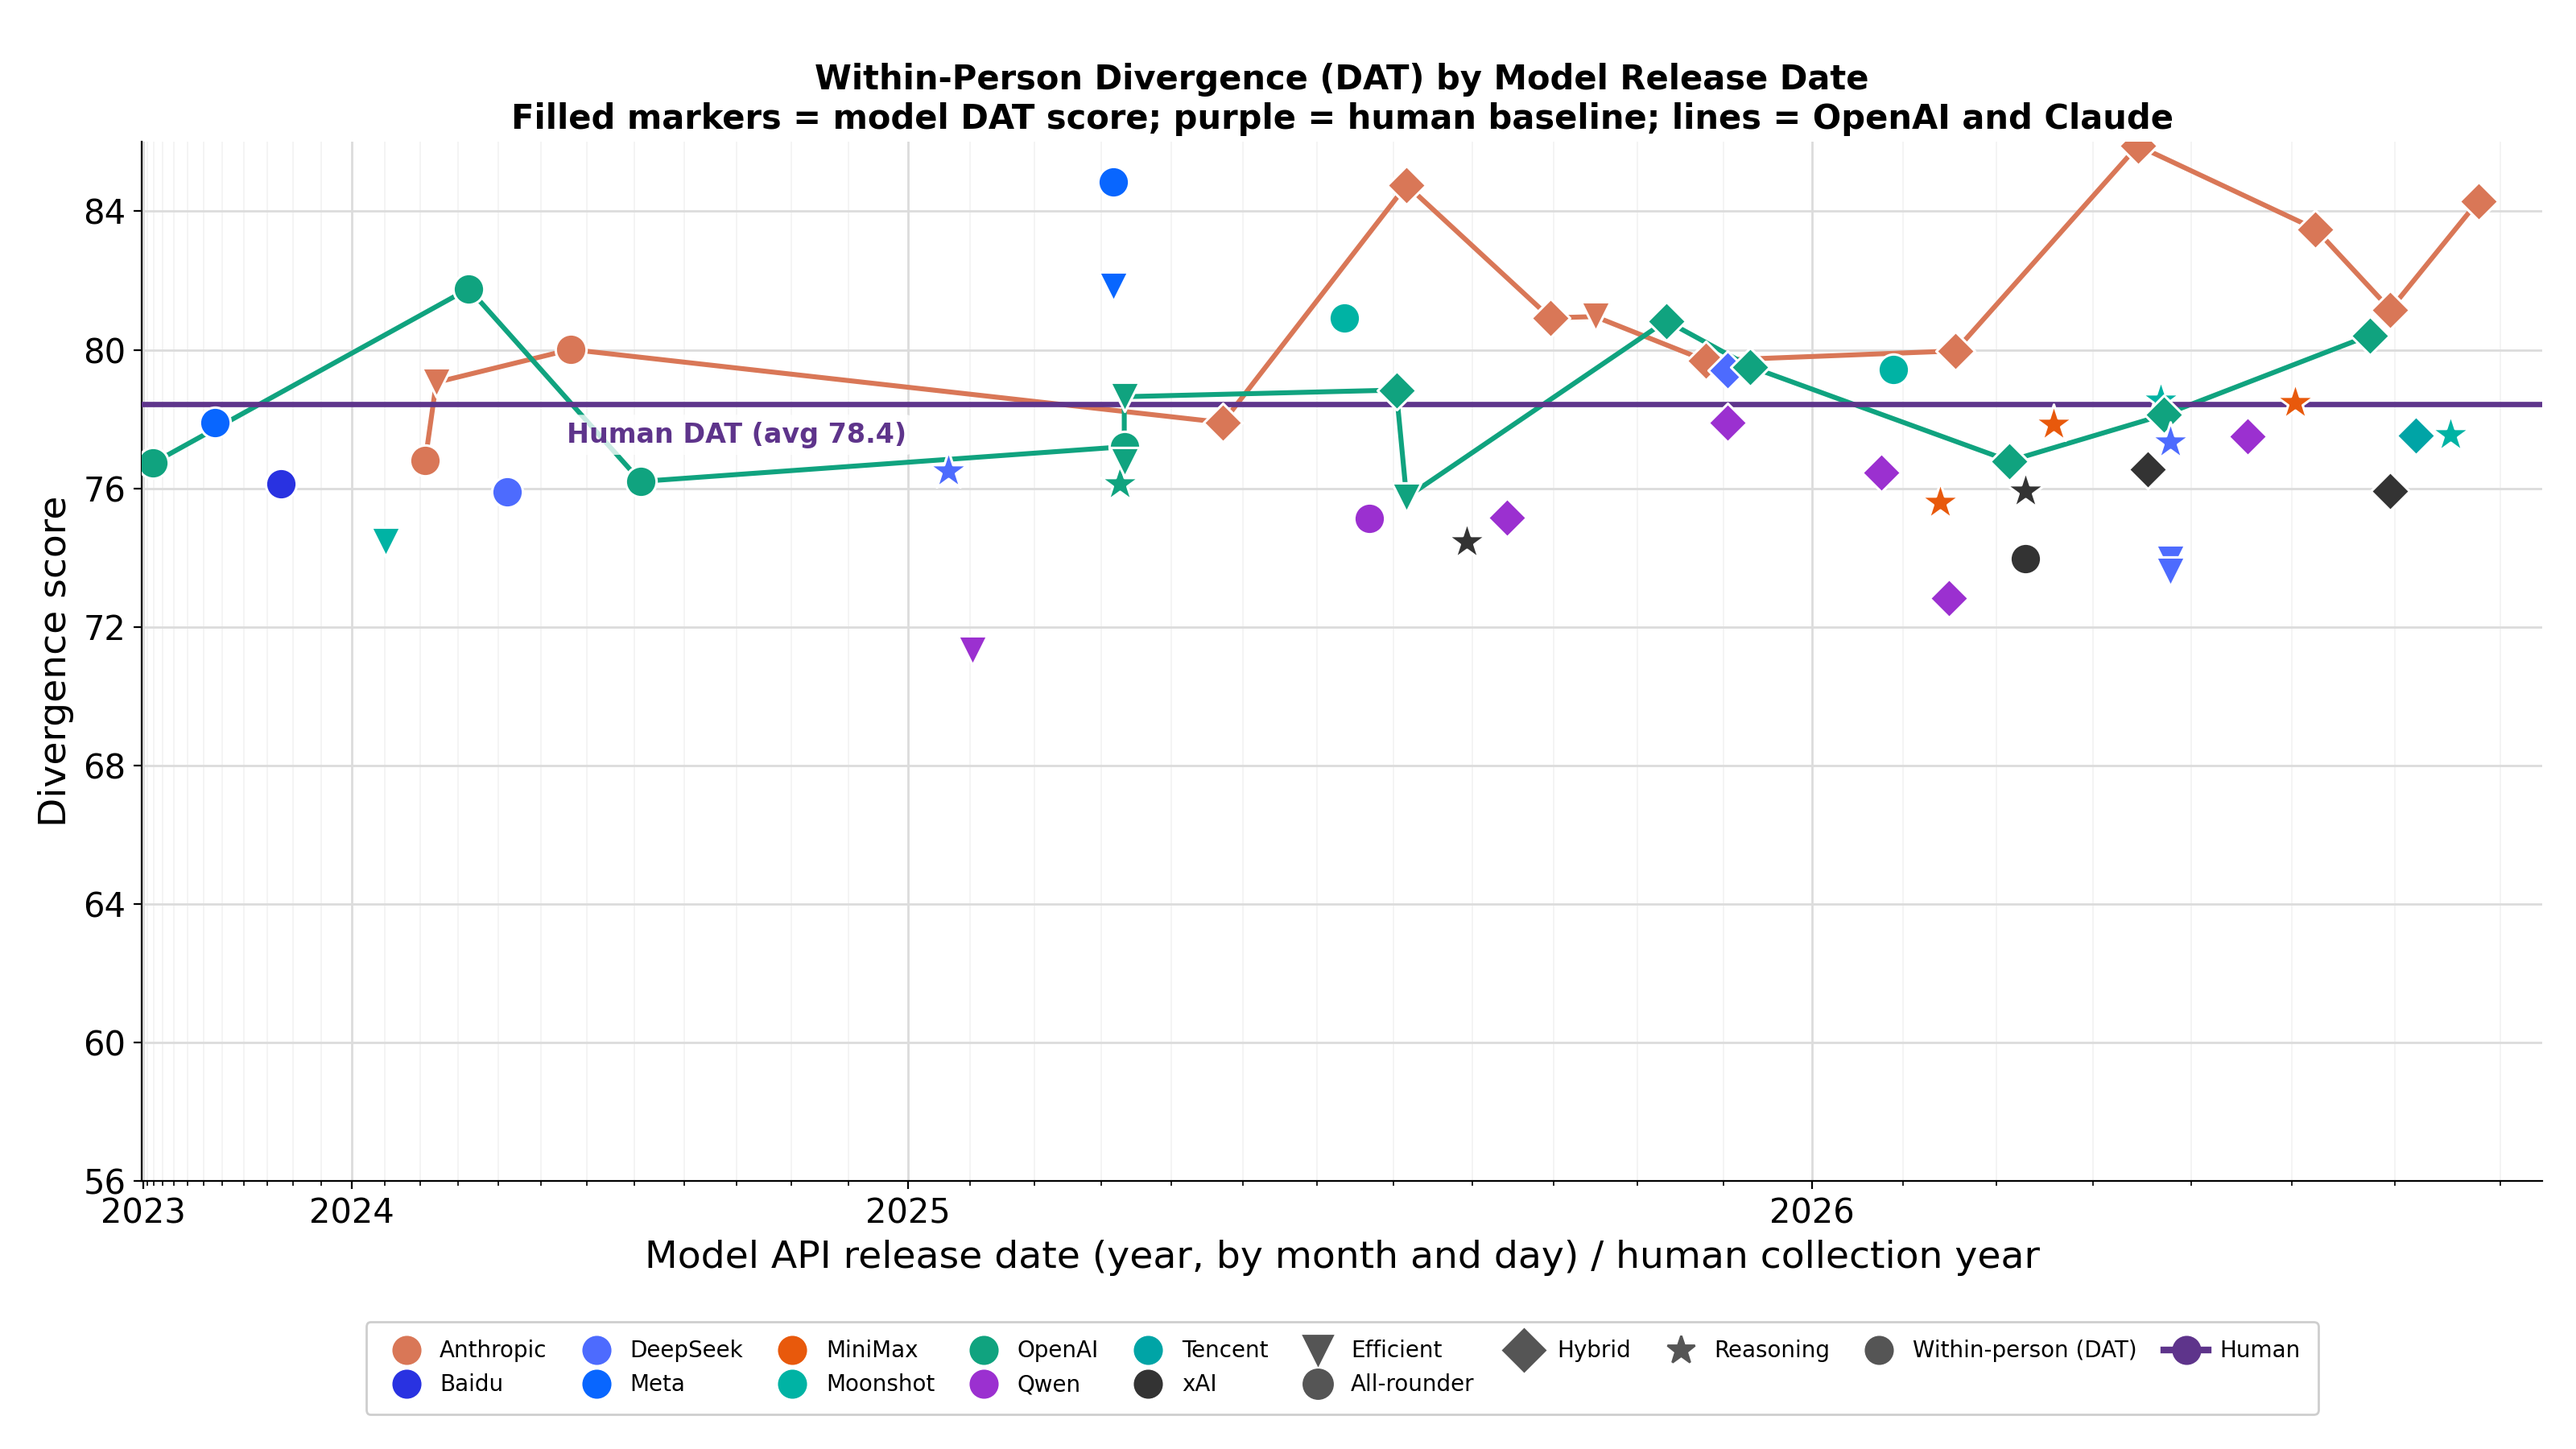
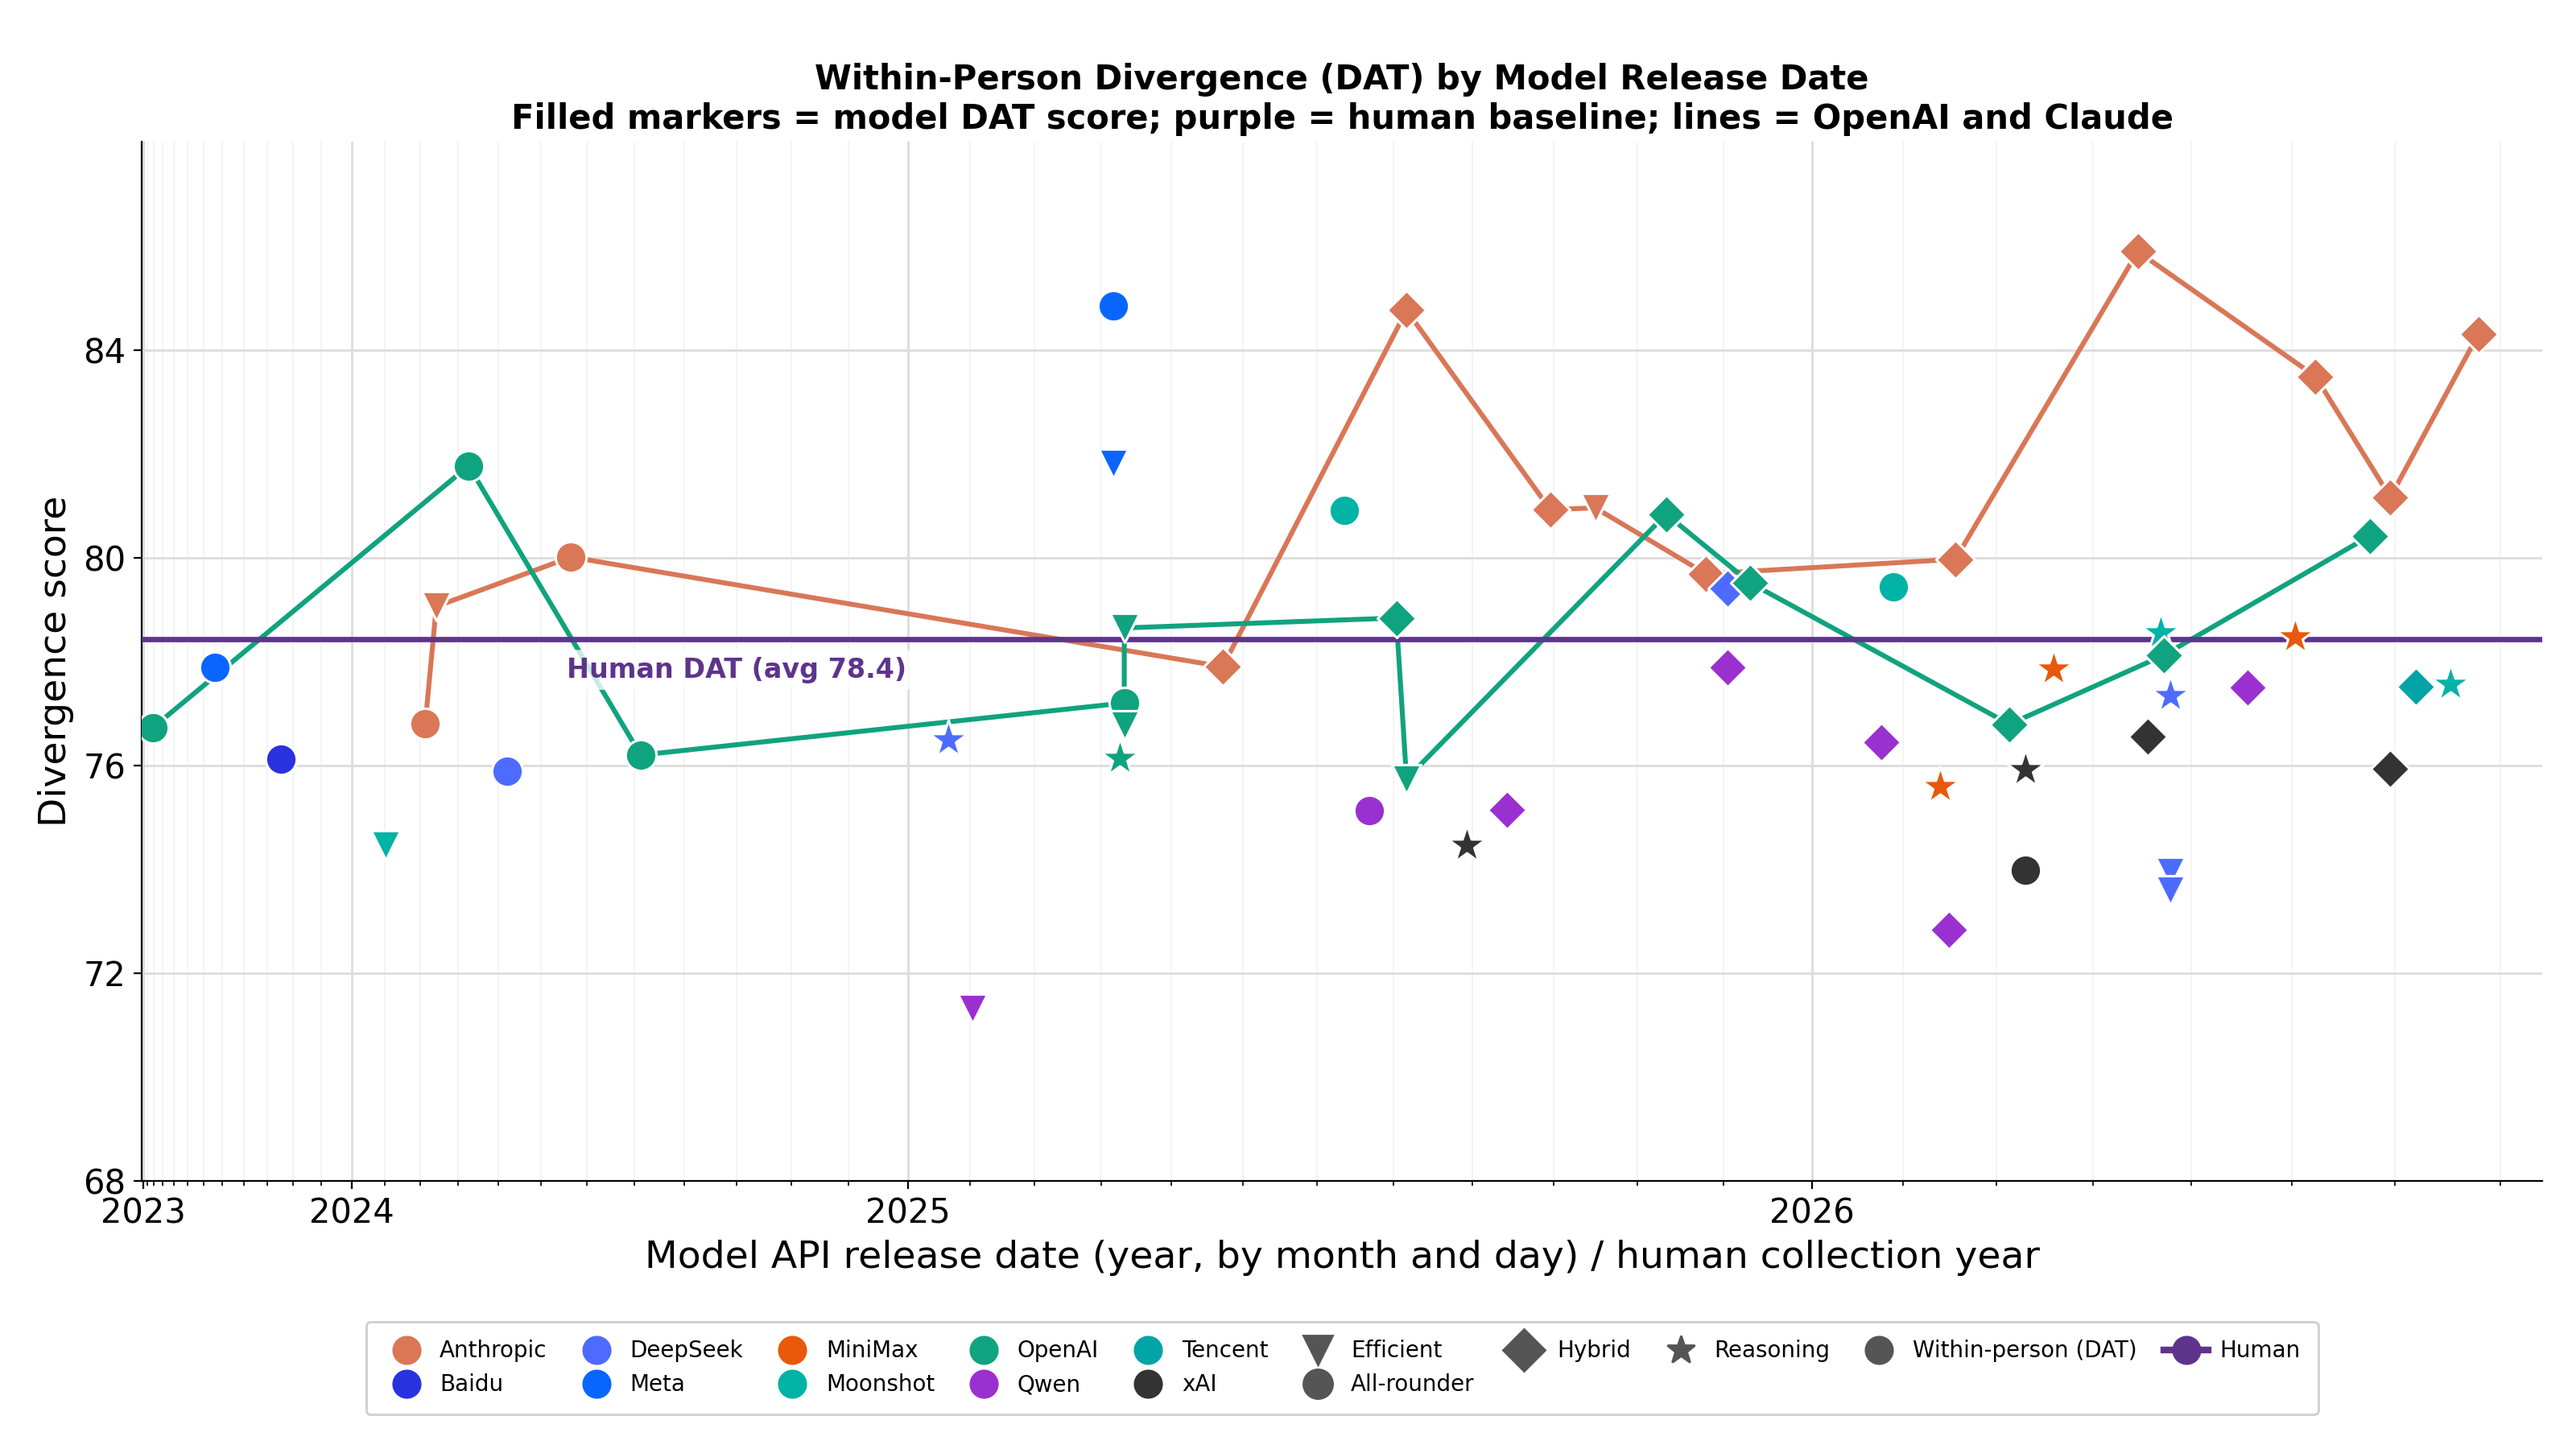
Y ranges: 68 to 88 on the three over-time figures, 60 to 100 on the two box plots
Set by Dawei. The own-population (repetition) figures cannot share 68-88 - those scores run
56.5 to 72.4 - so they keep 56-86 and now pass it to frame() explicitly as CHURN_YLIM instead
of inheriting the shared default.

diff --git a/analysis/overtime_style.py b/analysis/overtime_style.py
@@ -79,11 +79,12 @@ def limits(dat,models):
 # script: FIG_YLIM narrows the shared y range, FIG_NOTITLE drops the in-figure title (a deck sets
 # its own headline and reclaims the reserved space), FIG_OUT redirects the output directory.
 _YL=os.environ.get("FIG_YLIM")
-YLIM=tuple(float(x) for x in _YL.split(",")) if _YL else (56.0,86.0)
-                          # default: one shared range for EVERY figure: covers DAT 71.3-85.9,
-                          # uniqueness-vs-human 77.0-83.4 and own-population uniqueness 56.5-72.4
+YLIM=tuple(float(x) for x in _YL.split(",")) if _YL else (68.0,88.0)
+                          # 68-88 is shared by the three headline over-time figures (set by Dawei
+                          # 2026-07-31). Covers DAT 71.3-85.9 and uniqueness 77.0-83.4.
+CHURN_YLIM=(56.0,86.0)    # own-population uniqueness runs 56.5-72.4, so those two figures keep
+                          # their own range and pass it to frame() explicitly.
 NOTITLE=os.environ.get("FIG_NOTITLE","0")=="1"
-CHURN_YLIM=YLIM           # alias kept so older figure scripts stay valid
 FIGSIZE=(16,9); DPI=200   # saved WITHOUT tight bbox -> exactly 3200x1800 = true 16:9
 
 def new_fig():

diff --git a/analysis/fig5_repetition_only.py b/analysis/fig5_repetition_only.py
@@ -7,7 +7,7 @@ lineages(ax,dat,ch,models,'between')
 human_lines(ax,xmin,xmax,H_DAT,H_CH,show_dat=False,show_btw=True,btw_label_x=2023.02)
 between_markers(ax,dat,ch,models)
 frame(ax,xmin,xmax,"Uniqueness by Model Release Date\n"
-                   "Rarity of a response's words within its own population, on the DAT scale; purple dotted = human")
+                   "Rarity of a response's words within its own population, on the DAT scale; purple dotted = human",ylim=CHURN_YLIM)
 legend(ax,dat,models,[Line2D([0],[0],marker='o',ls='none',markerfacecolor='white',markeredgecolor='#555',
                              markeredgewidth=2.6,ms=12,label='Uniqueness'),
                       Line2D([0],[0],color=HUMAN_PURPLE,lw=3,ls=':',marker='o',ms=12,label='Human')],

diff --git a/analysis/fig4_repetition_with_dat.py b/analysis/fig4_repetition_with_dat.py
@@ -16,7 +16,7 @@ shift_arrows(ax,dat,ch,models)
 dat_markers(ax,dat,models,alpha=0.50)
 between_markers(ax,dat,ch,models)
 frame(ax,xmin,xmax,"Within-Person Divergence (DAT) and Uniqueness by Model Release Date\n"
-                   "Uniqueness = rarity of a response's words within its own population, on the DAT scale")
+                   "Uniqueness = rarity of a response's words within its own population, on the DAT scale",ylim=CHURN_YLIM)
 legend(ax,dat,models,[
     Line2D([0],[0],marker='o',ls='none',color='#555',alpha=0.50,ms=12,label='Within-person (DAT)'),
     Line2D([0],[0],marker='o',ls='none',markerfacecolor='white',markeredgecolor='#555',markeredgewidth=2.6,ms=12,label='Uniqueness'),

diff --git a/analysis/fig6_cross_section_boxes.py b/analysis/fig6_cross_section_boxes.py
@@ -20,7 +20,7 @@ SHOW_TITLE = os.environ.get("FIG_TITLE", "1") == "1"
 # One shared y range on both panels so the two measures are read on the same scale
 # (set by Dawei 2026-07-31). The human DAT tail runs below 50, so any series whose range
 # falls outside the window gets its true bound labelled at the axis rather than hidden.
-BOX_YLIM = tuple(float(x) for x in os.environ.get("FIG_BOX_YLIM", "50,100").split(","))
+BOX_YLIM = tuple(float(x) for x in os.environ.get("FIG_BOX_YLIM", "60,100").split(","))
 BOX_YSTEP = float(os.environ.get("FIG_BOX_YSTEP", "5"))
 
 HUMAN, MACHINE = "#5E348B", "#3CB7B0"        # human purple / machine teal
